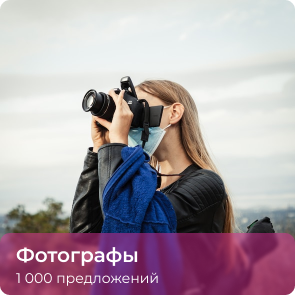
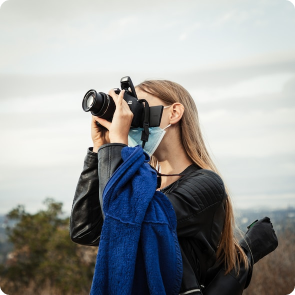
меняю разметку

Changed region(s): [[0.0, 0.7627, 1.0, 1.0]]

diff --git a/page_1/page_1.html b/page_1/page_1.html
@@ -1,28 +1,65 @@
 <!DOCTYPE html>
 <html lang="ru">
+
 <head>
   <meta charset="UTF-8">
   <meta name="viewport" content="width=device-width, initial-scale=1.0">
   <title>Page 1</title>
+  <link rel="preconnect" href="https://fonts.googleapis.com">
+  <!-- <link rel="preconnect" href="https://fonts.gstatic.com" crossorigin> -->
+  <link href="https://fonts.googleapis.com/css2?family=Montserrat:wght@400;600&display=swap" rel="stylesheet">
   <link rel="stylesheet" href="style.css">
 </head>
+
 <body>
   <div class="wrap">
     <section class="section">
       <h1>Популярные категории</h1>
       <div class="container">
-        <img src="./img/frame_5.png" class="image" alt="foto">
-        <img src="./img/frame_6.png" class="image" alt="foto">
-        <img src="./img/frame_7.png" class="image" alt="foto">
-        <img src="./img/frame_8.png" class="image" alt="foto">
-        <img src="./img/frame_9.png" class="image" alt="foto">
-        <img src="./img/frame_11.png" class="image" alt="foto">
-        <img src="./img/frame_10.png" class="image" alt="foto">
-        <img src="./img/frame_12.png" class="image" alt="foto">
+        <div class="img_card">
+          <img src="./img/frame_5.png" class="image" alt="foto">
+          <p class="img_text">Стилисты</p>
+        </div>
+
+        <div class="img_card">
+          <img src="./img/frame_6.png" class="image" alt="foto">
+          <p class="img_text">Фотографы</p>
+        </div>
+
+        <div class="img_card">
+          <img src="./img/frame_7.png" class="image" alt="foto">
+          <p class="img_text">Видеографы</p>
+        </div>
+
+        <div class="img_card">
+          <img src="./img/frame_8.png" class="image" alt="foto">
+          <p class="img_text">DJ</p>
+        </div>
+
+        <div class="img_card">
+          <img src="./img/frame_9.png" class="image" alt="foto">
+          <p class="img_text">Музыканты</p>
+        </div>
+
+        <div class="img_card">
+          <img src="./img/frame_11.png" class="image" alt="foto">
+          <p class="img_text">Организаторы</p>
+        </div>
+
+        <div class="img_card">
+          <img src="./img/frame_10.png" class="image" alt="foto">
+          <p class="img_text">Свадебные платья</p>
+        </div>
+
+        <div class="img_card">
+          <img src="./img/frame_12.png" class="image" alt="foto">
+          <p class="img_text">Торты</p>
+        </div>
+
       </div>
     </section>
     <footer>
-      <nav class="nav"><hr>
+      <nav class="nav">
         <ul>
           <li><a href="../index.html">Page 0</a></li>
           <li><a href="../page_24/page_24.html">Page 24</a></li>
@@ -31,8 +68,9 @@
           <li><a href="#!">Page n</a></li>
           <li><a href="#!">Page n</a></li>
         </ul>
-      </nav><hr>
+      </nav>
     </footer>
   </div>
 </body>
+
 </html>

diff --git a/page_1/style.css b/page_1/style.css
@@ -13,7 +13,6 @@ body {
 }
 
 .section {
-  height: 100%;
   margin: auto 0;
 }
 
@@ -21,7 +20,9 @@ h1 {
   font-family: 'Montserrat';
   font-size: 32px;
   font-weight: 600;
+  color: #1F171C;
   margin: 38px 0 24px 0;
+  text-shadow: 0 0 5px #999;
 }
 
 .container {
@@ -29,15 +30,53 @@ h1 {
   flex-direction: row;
   justify-content: space-between;
   flex-wrap: wrap;
+  gap: 20px 20px;
+}
+
+.img_card {
+  width: 23.79%;
+  position: relative;
+  border-radius: 10px;
+  box-shadow: 0 0 5px #999;
 }
 
 .image {
-  width: 295px;
-  margin-bottom: 20px;
+  width: 100%;
+  /* position: absolute; */
+  /* z-index: 2; */
+
+  box-shadow: 0 0 5px #999;
+  border-radius: 10px;
 }
 
+.img_card::after {
+  content: "";
+  background-color: rgba(239, 47, 162, 0.44);
+  width: 100%;
+  height: 62px;
+  bottom: 0;
+  left: 0;
+  right: 0;
+  z-index: 10;
+  position: absolute;
+}
+
+.img_card,
+.img_card::after,
+.image {
+    border-radius: 10px;
+  }
+
+.img_text {
+  position: absolute;
+  z-index: 10;
+}
+
+/* --- Навигация --- */
 .nav {
-  padding-top: 30px;
+  margin: 30px 0 20px;
+  padding: 20px 0;
+  box-shadow: 0 0 10px #777;
 }
 
 .nav ul {
